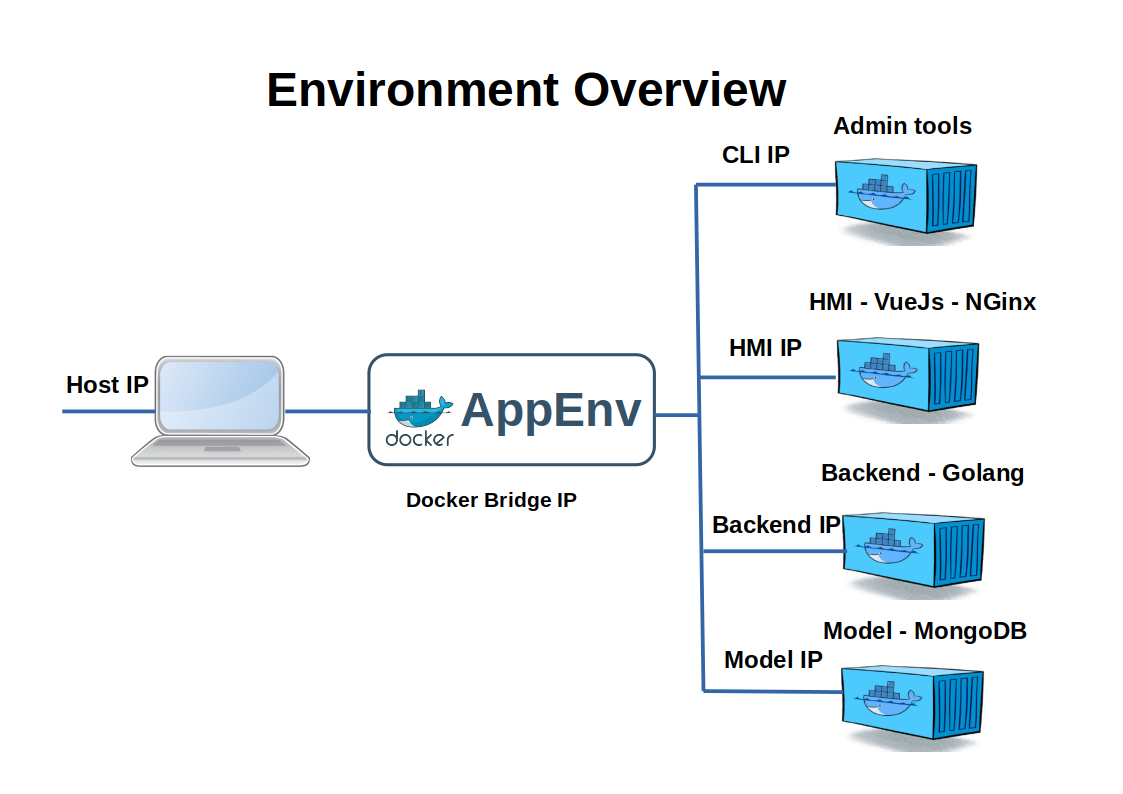
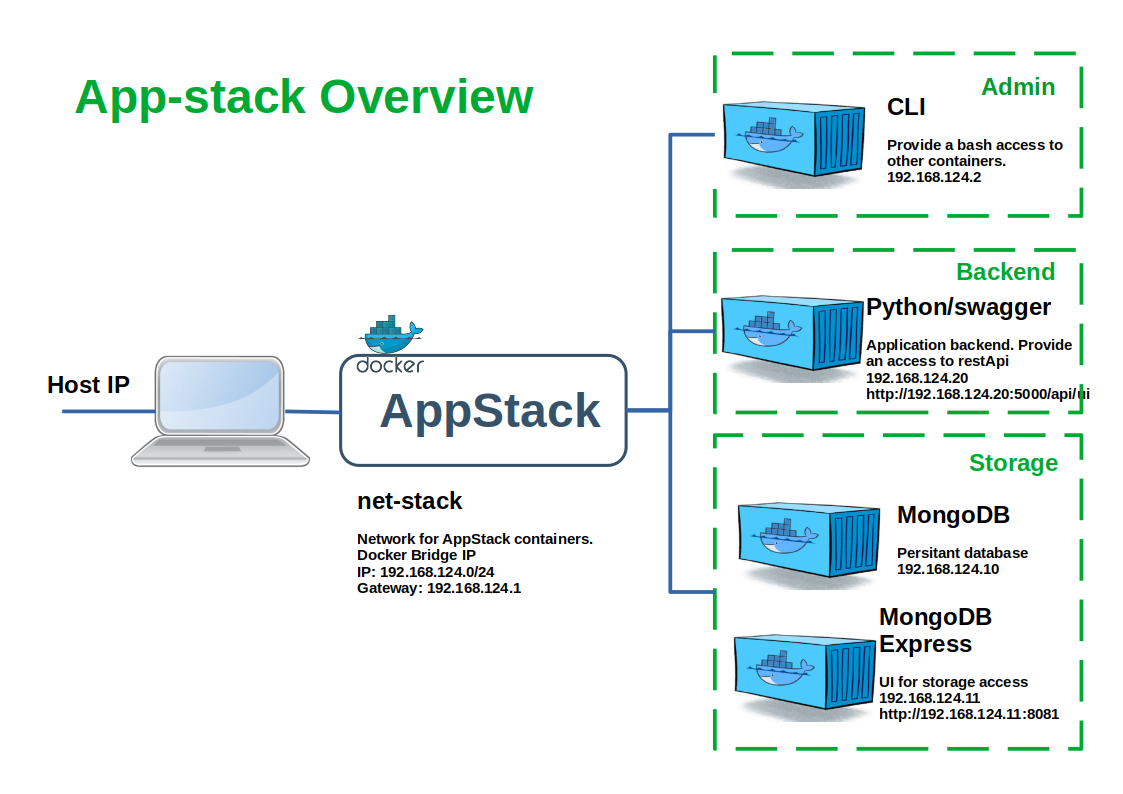
[FEAT] Ip are now fixed

diff --git a/README.md b/README.md
@@ -20,6 +20,12 @@ MongoDb contains the database used for the application.[(Official Documentation)
 
 MongoDb-express is used for dev and debug purposes to easily see the database.[(Official Documentation)](https://hub.docker.com/_/mongo-express)
 
+```
+docker-compose run mongo-express
+```
+
+When started, MongoDB express is accessible at [http://192.168.124.11:8081](http://192.168.124.11:8081)
+
 __Will change to an argument:__ The persistant Database is set to ./data/db
 
 ## Backend - Python Swagger
@@ -30,7 +36,7 @@ Python Swagger is used for the backend.[(Official Documentation)](https://swagge
 docker-compose run backend
 ```
 
-Then you can access [Swagger here](http://localhost:5000/api/ui)
+When started, Swagger UI is accessible at [http://192.168.124.20:5000/api/ui](http://192.168.124.20:5000/api/ui)
 
 ## CLI - Bash
 
